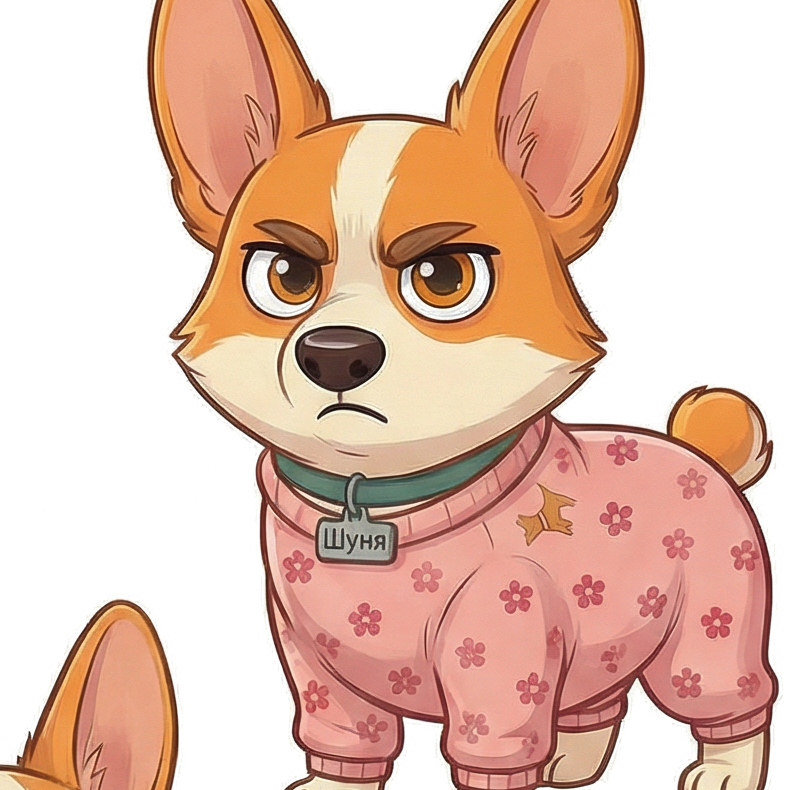
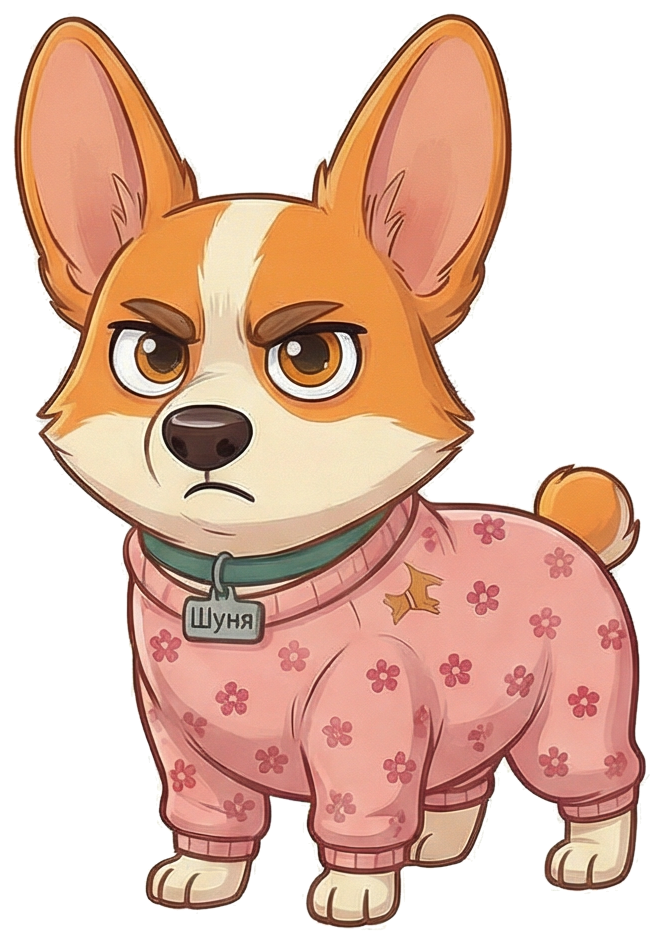
fix(mascot): полные позы Шуни без обрезанных ушей (Pillow/scipy автонарезка)
- tools/cut_poses.py: удаляем белый фон по краям (flood по меткам) + автонарезка
  по связным областям с маской каждой позы → полные уши, без ручных прямоугольников
  и фрагментов соседей; источник — реальный лист поз shunya-poses.png
- перегенерированы pose-*-cut.png (реальные границы, целые уши)

diff --git a/tools/cut_poses.py b/tools/cut_poses.py
@@ -1,0 +1,90 @@
+"""
+Аккуратная нарезка поз Шуни из листа public/shunya/shunya-poses.png.
+
+- удаляем ТОЛЬКО белый фон, связанный с краями (flood по меткам) — светлая
+  шерсть/глаза-блики внутри не дырявятся;
+- лёгкий фезеринг альфы;
+- автонарезка по связным областям: каждая поза кропается по своим реальным
+  границам (полные уши!), без ручных прямоугольников.
+
+Запуск: py -3.9 tools/cut_poses.py
+"""
+import os
+import numpy as np
+from PIL import Image, ImageFilter
+from scipy import ndimage
+
+ROOT = os.path.join(os.path.dirname(__file__), "..", "public", "shunya")
+SRC = os.path.join(ROOT, "shunya-poses.png")
+
+img = Image.open(SRC).convert("RGBA")
+arr = np.array(img)
+h, w = arr.shape[:2]
+
+# 1. Маска «почти белое» (кремовая шерсть #FFF6EC имеет min=236 — не попадёт).
+mn = arr[:, :, :3].astype(np.int16).min(axis=2)
+white = mn >= 238
+
+# 2. Удаляем только тот белый, что связан с краями картинки (это фон).
+lbl, _ = ndimage.label(white)
+border = set(lbl[0, :]).union(lbl[-1, :], lbl[:, 0], lbl[:, -1])
+border.discard(0)
+bg = np.isin(lbl, list(border))
+arr[:, :, 3] = np.where(bg, 0, 255).astype(np.uint8)
+
+# 3. Лёгкий фезеринг краёв альфы.
+arr[:, :, 3] = np.array(
+    Image.fromarray(arr[:, :, 3]).filter(ImageFilter.GaussianBlur(0.7))
+)
+out = Image.fromarray(arr, "RGBA")
+
+# 4. Связные области корги (по альфе) -> 5 крупнейших.
+solid = arr[:, :, 3] > 40
+clbl, _ = ndimage.label(solid)
+counts = np.bincount(clbl.ravel())
+counts[0] = 0
+labels = [i for i in np.argsort(counts)[::-1] if counts[i] > 8000][:5]
+
+comps = []
+for lab in labels:
+    ys, xs = np.where(clbl == lab)
+    comps.append(
+        {
+            "lab": int(lab),
+            "bbox": (int(xs.min()), int(ys.min()), int(xs.max()), int(ys.max())),
+            "cy": float(ys.mean()),
+            "cx": float(xs.mean()),
+        }
+    )
+
+assert len(comps) == 5, f"ожидалось 5 поз, найдено {len(comps)}"
+
+# 5. Раскладываем по позициям: верх (2), центр (1), низ (2).
+by_y = sorted(comps, key=lambda c: c["cy"])
+top_row = sorted(by_y[:2], key=lambda c: c["cx"])
+middle = by_y[2]
+bottom_row = sorted(by_y[3:], key=lambda c: c["cx"])
+mapping = {
+    "wave": top_row[0],
+    "grumpy": top_row[1],
+    "happy": middle,
+    "sneaky": bottom_row[0],
+    "surprised": bottom_row[1],
+}
+
+# 6. Кроп каждой позы по её реальным границам + небольшой отступ.
+PAD = 12
+for name, c in mapping.items():
+    x0, y0, x1, y1 = c["bbox"]
+    x0 = max(0, x0 - PAD)
+    y0 = max(0, y0 - PAD)
+    x1 = min(w, x1 + PAD)
+    y1 = min(h, y1 + PAD)
+    # оставляем только пиксели этой позы (без фрагментов соседей в рамке)
+    only = arr.copy()
+    only[:, :, 3] = np.where(clbl == c["lab"], arr[:, :, 3], 0).astype(np.uint8)
+    crop = Image.fromarray(only, "RGBA").crop((x0, y0, x1, y1))
+    crop.save(os.path.join(ROOT, f"pose-{name}-cut.png"))
+    print(f"{name}: {x1 - x0}x{y1 - y0}")
+
+print("done")
